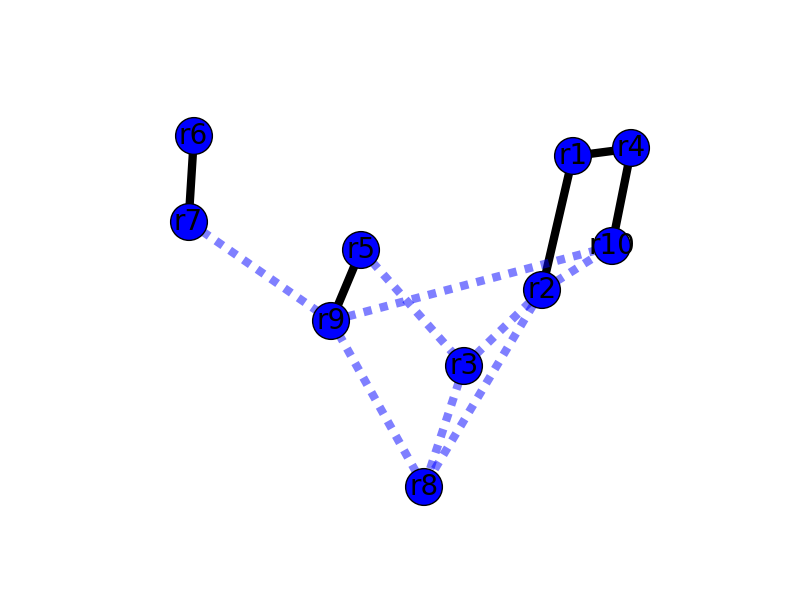
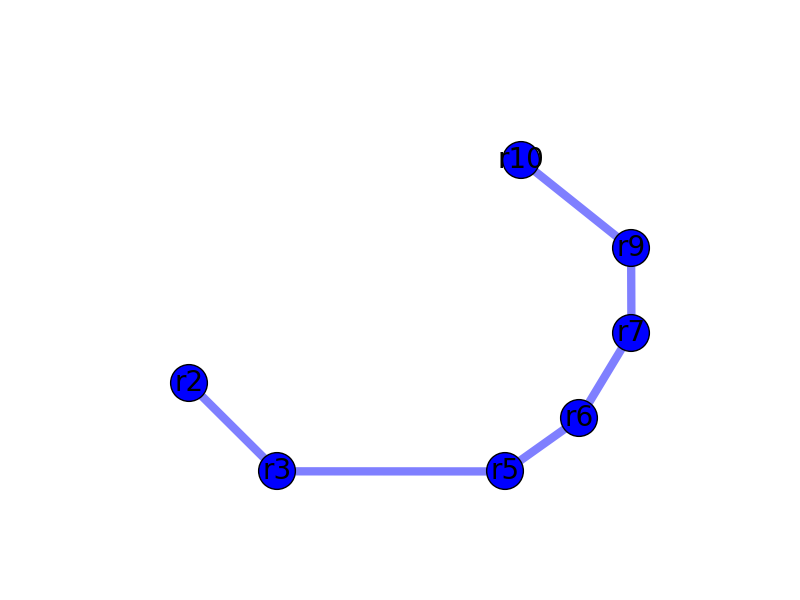
removal of nodes(routers) is being handled properly now

diff --git a/monitor.py b/monitor.py
@@ -14,108 +14,87 @@ r8 = Router(8)
 r9 = Router(9)
 r10 = Router(10)
 
-routers = [r1, r2, r3, r4, r5, r6, r7, r8, r9, r10]
+routers = {1:r1, 2:r2, 3:r3, 4:r4, 5:r5, 6:r6, 7:r7, 8:r8, 9:r9, 10:r10}
 
-for x in routers:
-	print "Router " + str(x.routerNum) + ": " + str(x.IP) + " " + str(x.PORT)
+# for x in routers:
+# 	print "Router " + str(x.routerNum) + ": " + str(x.IP) + " " + str(x.PORT)
 
 
 graph = []
 
-# FIXME: FIND RANDOM CONNECTION
-print "connecting r1 to r2: "
+# @FIXME: FIND RANDOM CONNECTIONS
+# print "connecting r1 to r2: "
 r1.add_neighbor(r2)
 r2.add_neighbor(r1)
 graph.append( (1, 2, 5) )
 
-print "connecting r2 to r3: "
+# print "connecting r2 to r3: "
 r2.add_neighbor(r3)
 r3.add_neighbor(r2)
 graph.append( (2, 3, 2) )
 
-print "connecting r3 to r4: "
+# print "connecting r3 to r4: "
 r3.add_neighbor(r4)
 r4.add_neighbor(r3)
 graph.append( (3, 4, 9) )
 
-print "connecting r3 to r5: "
+# print "connecting r3 to r5: "
 r3.add_neighbor(r5)
 r5.add_neighbor(r3)
 graph.append( (3, 5, 1) )
 
-print "connecting r4 to r6: "
+# print "connecting r4 to r6: "
 r4.add_neighbor(r6)
 r6.add_neighbor(r4)
 graph.append( (4, 6, 1) )
 
-print "connecting r5 to r6: "
+# print "connecting r5 to r6: "
 r5.add_neighbor(r6)
 r6.add_neighbor(r5)
 graph.append( (5, 6, 10) )
 
-print "connecting r6 to r7: "
+# print "connecting r6 to r7: "
 r6.add_neighbor(r7)
 r7.add_neighbor(r6)
 graph.append( (6, 7, 7) )
 
-print "connecting r7 to r8: "
+# print "connecting r7 to r8: "
 r7.add_neighbor(r8)
 r8.add_neighbor(r7)
 graph.append( (7, 8, 1) )
 
-print "connecting r7 to r9: "
+# print "connecting r7 to r9: "
 r7.add_neighbor(r9)
 r9.add_neighbor(r7)
 graph.append( (7, 9, 8) )
 
-print "connecting r8 to r10: "
+# print "connecting r8 to r10: "
 r8.add_neighbor(r10)
 r10.add_neighbor(r8)
 graph.append( (8, 10, 11) )
 
-print "connecting r9 to r10: "
+# print "connecting r9 to r10: "
 r9.add_neighbor(r10)
 r10.add_neighbor(r9)
 graph.append( (9, 10, 2) )
 
-for x in r6.neighbors:
-	print x
+# for x in r6.neighbors:
+# 	print x
 
 
 def draw_graph():
 
     G=nx.Graph()
 
-    G.add_node("r1")
-    G.add_node("r2")
-    G.add_node("r3")
-    G.add_node("r4")
-    G.add_node("r5")
-    G.add_node("r6")
-    G.add_node("r7")
-    G.add_node("r8")
-    G.add_node("r9")
-    G.add_node("r10")
+    for k,v in routers.items():
+    	G.add_node("r" + str(v.routerNum))
 
-    G.add_edge('r1','r2',weight=6)
-    G.add_edge('r3','r2',weight=4)
-    G.add_edge('r5','r3',weight=2)
-    G.add_edge('r7','r9',weight=2)
-    G.add_edge('r10','r4',weight=8)
-    G.add_edge('r2','r10',weight=3)
-    G.add_edge('r5','r9',weight=6)
-    G.add_edge('r4','r1',weight=10)
-    G.add_edge('r6','r7',weight=9)
-    G.add_edge('r9','r10',weight=1)
-    G.add_edge('r8','r2',weight=1)
-    G.add_edge('r9','r8',weight=1)
-    G.add_edge('r3','r8',weight=1)
+    #NEED TO CHANGE THIS TO LOOP through graph and dynamically
+    for x in graph:
+    	G.add_edge('r' + str(x[0]),'r' + str(x[1]),weight=x[2])
 
-
-
-
-    elarge=[(u,v) for (u,v,d) in G.edges(data=True) if d['weight'] >5]
-    esmall=[(u,v) for (u,v,d) in G.edges(data=True) if d['weight'] <=5]
+    # elarge=[(u,v) for (u,v,d) in G.edges(data=True) if d['weight'] >5]
+    # esmall=[(u,v) for (u,v,d) in G.edges(data=True) if d['weight'] <=5]
 
     pos=nx.spring_layout(G) # positions for all nodes
 
@@ -123,32 +102,30 @@ def draw_graph():
     nx.draw_networkx_nodes(G,pos,node_size=700,node_color='b')
 
     # edges
-    nx.draw_networkx_edges(G,pos,edgelist=elarge,
-                        width=6)
-    nx.draw_networkx_edges(G,pos,edgelist=esmall,
-                        width=6,alpha=0.5,edge_color='b',style='dashed')
+    # nx.draw_networkx_edges(G,pos,edgelist=elarge,width=6)
+    nx.draw_networkx_edges(G,pos,edgelist=None,width=6,alpha=0.5,edge_color='b',style='solid',label="e")
 
     # labels
     nx.draw_networkx_labels(G,pos,font_size=20,font_family='sans-serif')
 
 
-    weights = []
-    weights.append(G.get_edge_data('r1','r2'))
-    weights.append(G.get_edge_data('r3','r2'))
-    weights.append(G.get_edge_data('r5','r3'))
-    weights.append(G.get_edge_data('r7','r9'))
-    weights.append(G.get_edge_data('r10','r4'))
-    weights.append(G.get_edge_data('r2','r10'))
-    weights.append(G.get_edge_data('r5','r9'))
-    weights.append(G.get_edge_data('r4','r1'))
-    weights.append(G.get_edge_data('r6','r7'))
-    weights.append(G.get_edge_data('r9','r10'))
-    weights.append(G.get_edge_data('r8','r2'))
-    weights.append(G.get_edge_data('r9','r8'))
-    weights.append(G.get_edge_data('r3','r8'))
+    # weights = []
+    # weights.append(G.get_edge_data('r1','r2'))
+    # weights.append(G.get_edge_data('r3','r2'))
+    # weights.append(G.get_edge_data('r5','r3'))
+    # weights.append(G.get_edge_data('r7','r9'))
+    # weights.append(G.get_edge_data('r10','r4'))
+    # weights.append(G.get_edge_data('r2','r10'))
+    # weights.append(G.get_edge_data('r5','r9'))
+    # weights.append(G.get_edge_data('r4','r1'))
+    # weights.append(G.get_edge_data('r6','r7'))
+    # weights.append(G.get_edge_data('r9','r10'))
+    # weights.append(G.get_edge_data('r8','r2'))
+    # weights.append(G.get_edge_data('r9','r8'))
+    # weights.append(G.get_edge_data('r3','r8'))
 
 
-    print'The weights of the connected routers are: ' + str(weights)
+    # print'The weights of the connected routers are: ' + str(weights)
 
 
     plt.axis('off')
@@ -157,20 +134,37 @@ def draw_graph():
 
 draw_graph()
 
-
 print "Welcome to our Network Emulator!"
 time.sleep(1)
-print "This simulator provides blah blah blah" # @FIXME: WRITE A DESCRIPTION
-time.sleep(1)
 
-rDrop = input("Enter a router id to drop(integer): ")
+while True:
 
-# Drop router:
+	rDrop = input("Enter a router id to drop(integer): ")
 
-for x in routers[rDrop - 1].neighbors:
-	routers[x[0]-1].drop_neighbor(rDrop)
+	if rDrop == "exit":
+		break
 
-for x in routers[rDrop - 1].neighbors:
-	print "neighbors of r" + str(routers[x[0]-1].routerNum) + ":"
-	for x in routers[x[0]-1].neighbors:
-		print x
+	graph2 = ()
+
+	#Drop edges from graph:
+	for x in graph:
+		if x[0] == rDrop or x[1] == rDrop:
+			pass
+		else:
+			graph2 = graph2 + (x,)
+
+	graph = graph2
+
+	# Drop router:
+	for x in routers[rDrop].neighbors:
+		routers[x[0]].drop_neighbor(rDrop)
+
+
+	for x in routers[rDrop].neighbors:
+		print "neighbors of r" + str(routers[x[0]].routerNum) + ":"
+		for x in routers[x[0]].neighbors:
+			print x
+
+	del routers[rDrop]
+
+	draw_graph()

diff --git a/router.py b/router.py
@@ -40,7 +40,7 @@ class Router:
 			n = (neighbor.routerNum, neighbor.IP, neighbor.PORT)			# n = (IP, PORT, WEIGHT, routerNum)
 			self.neighbors.append(n)
 
-			print 'Successfully connected to neighbor.............................'
+			# print 'Successfully connected to neighbor.............................'
 		except socket.error, msg :
 			print 'Failed to create socket. Error Code : ' + str(msg[0]) + ' Message ' + msg[1]
 			sys.exit()
